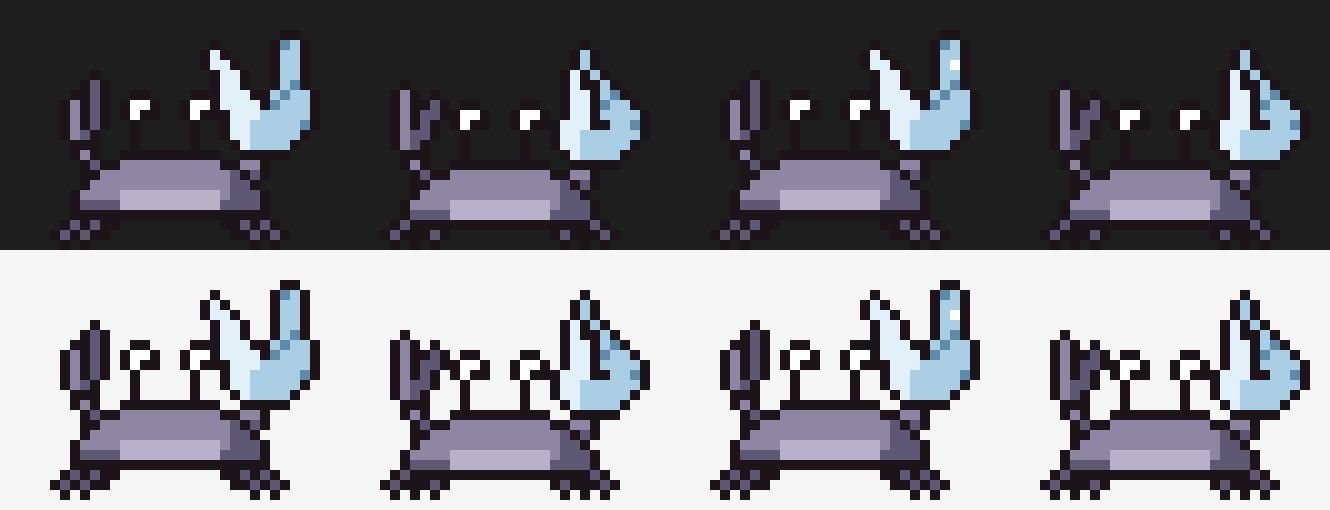
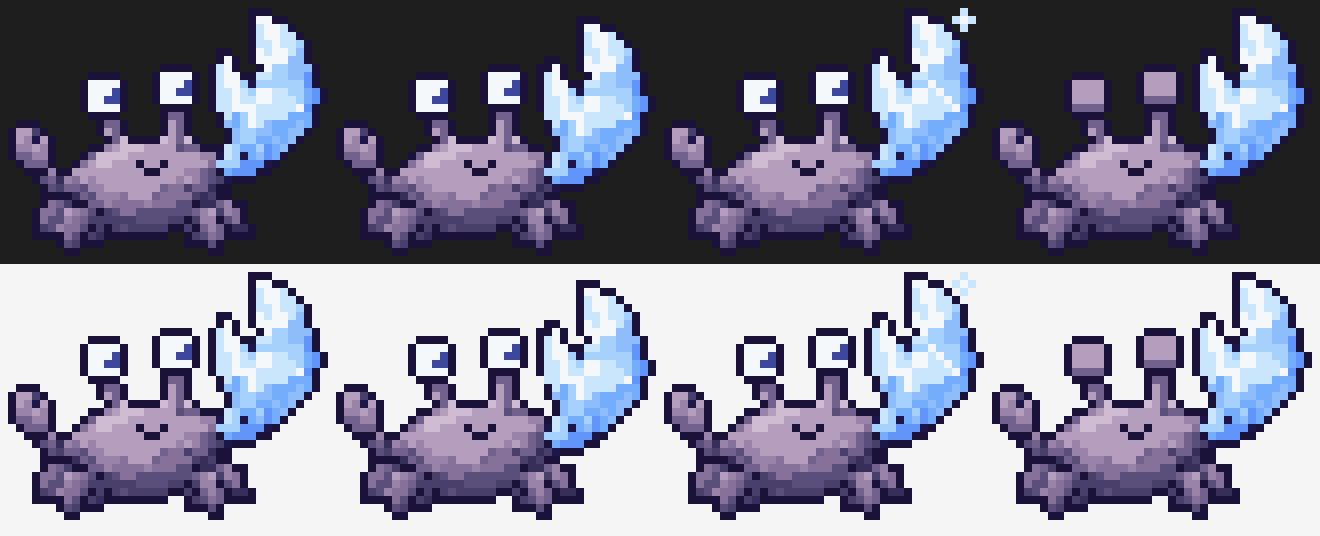
P5-26: redraw Quartzclaw from @danielpg95's reference

diff --git a/plugin/content/CREDITS.md b/plugin/content/CREDITS.md
@@ -28,7 +28,7 @@ noted (decision 0011). Add a row whenever you add or change an asset.
 | `modsters/mossmole/sprite.png` | @danielpg95 (drawn with Claude Code) | CC BY 4.0 | Mossmole, redrawn in P5-26 from @danielpg95's reference |
 | `modsters/echobat/sprite.png` | @danielpg95 (drawn with Claude Code) | CC BY 4.0 | Echobat, redrawn in P5-26 from @danielpg95's reference |
 | `modsters/prismite/sprite.png` | @danielpg95 (drawn with Claude Code) | CC BY 4.0 | Prismite, redrawn in P5-26 from @danielpg95's reference |
-| `modsters/quartzclaw/sprite.png` | @danielpg95 (drawn with Claude Code) | CC BY 4.0 | Crystal Grotto |
+| `modsters/quartzclaw/sprite.png` | @danielpg95 (drawn with Claude Code) | CC BY 4.0 | Quartzclaw, redrawn in P5-26 from @danielpg95's reference |
 | `modsters/geodon/sprite.png` | @danielpg95 (drawn with Claude Code) | CC BY 4.0 | Crystal Grotto |
 | `modsters/gemsnake/sprite.png` | @danielpg95 (drawn with Claude Code) | CC BY 4.0 | Crystal Grotto |
 | `modsters/amethowl/sprite.png` | @danielpg95 (drawn with Claude Code) | CC BY 4.0 | Crystal Grotto |
